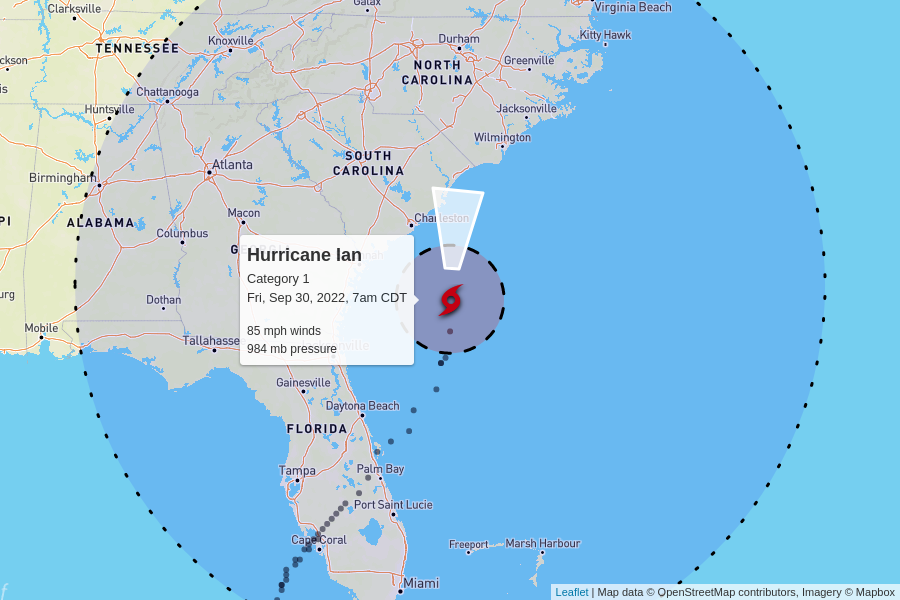
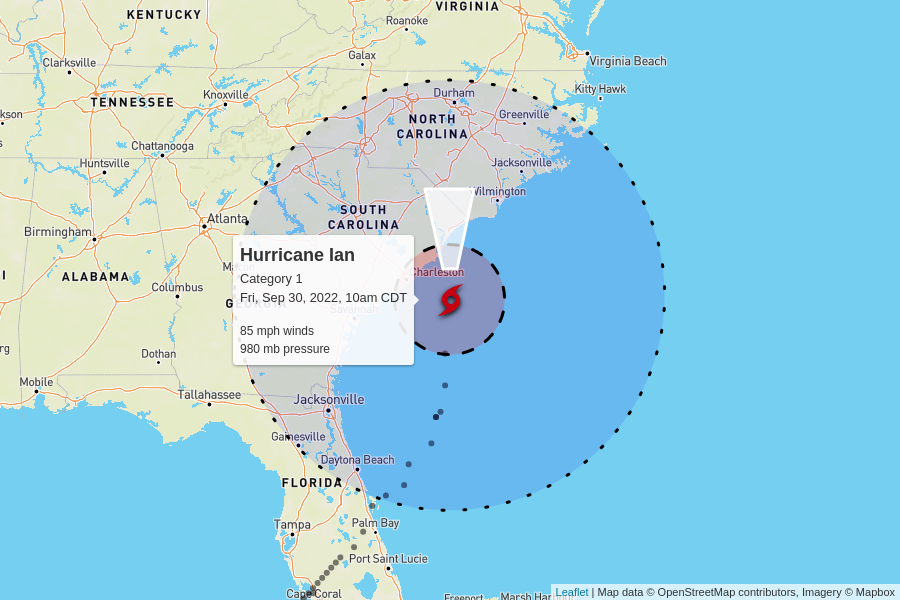
automatic update

diff --git a/docs/index.html b/docs/index.html
@@ -100,7 +100,7 @@
         <td colspan="6" class="storm category-1" >
           <h2>
             Hurricane Ian - Category 1
-            <p class="updated">last updated <span data-time>2022-09-30T12:00:00.000Z</span></p>
+            <p class="updated">last updated <span data-time>2022-09-30T15:00:00.000Z</span></p>
           </h2>
         </td>
       </tr>
@@ -116,11 +116,11 @@
       <tr>
         <td class="spacer"></td>
         <td>85 mph</td>
-        <td>984 mb</td>
+        <td>980 mb</td>
         <td>
-          9 mph to the north
+          14 mph to the north
           <br/>
-          <span style="display: inline-block; font-size: 1.5em; transform: rotate(5deg);">↑</span>
+          <span style="display: inline-block; font-size: 1.5em; transform: rotate(0deg);">↑</span>
         </td>
         <td><a href="https://raw.githubusercontent.com/mgwalker/atlantic-hurricanes/main/data/csv/AL092022.csv">AL092022.csv</a></td>
         <td><a href="https://www.nhc.noaa.gov/archive/2022/IAN.shtml?">NHC advisories</a></td>
